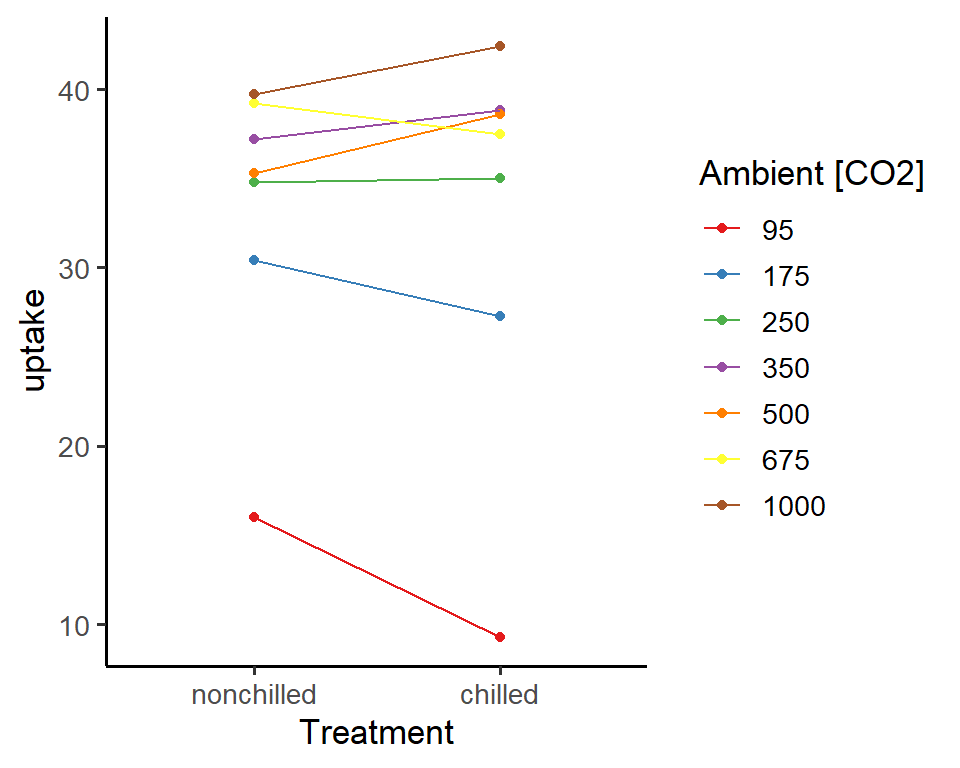
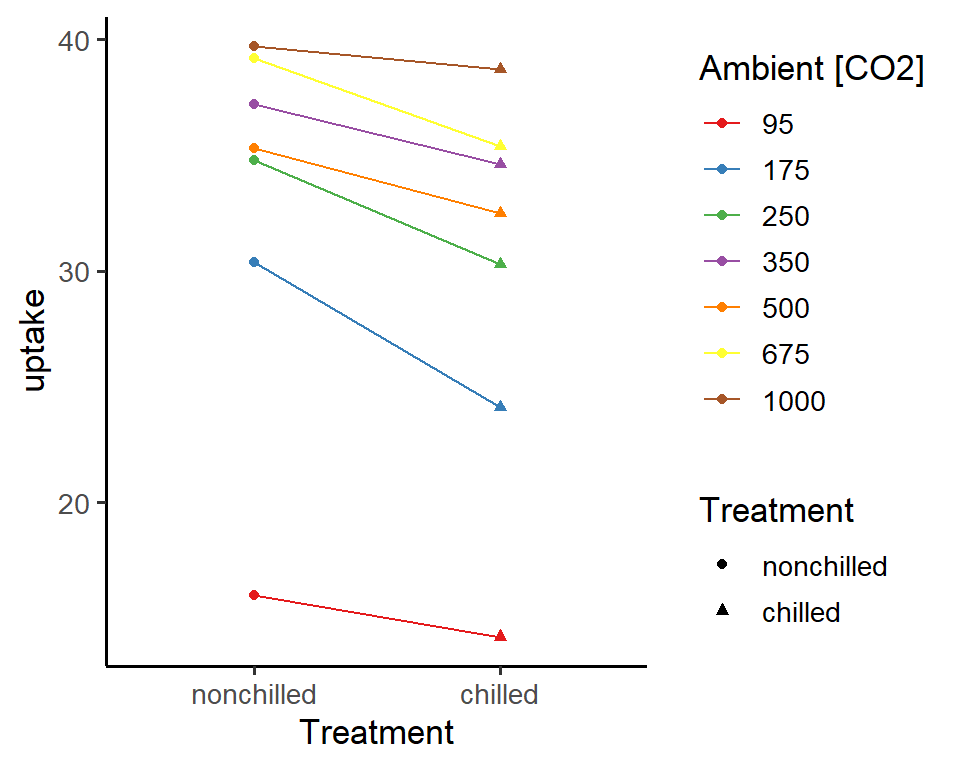
u

diff --git a/_posts/2024-06-11-post-34-connecting-paired-points-by-groups-in-ggplots/post-34-connecting-paired-points-by-groups-in-ggplots.html b/_posts/2024-06-11-post-34-connecting-paired-points-by-groups-in-ggplots/post-34-connecting-paired-points-by-groups-in-ggplots.html
@@ -118,7 +118,7 @@ code span.wa { color: #5e5e5e; font-style: italic; } /* Warning */
   <!--/radix_placeholder_rmarkdown_metadata-->
   
   <script type="text/json" id="radix-resource-manifest">
-  {"type":"character","attributes":{},"value":["post-34-connecting-paired-points-by-groups-in-ggplots_files/anchor-4.2.2/anchor.min.js","post-34-connecting-paired-points-by-groups-in-ggplots_files/bowser-1.9.3/bowser.min.js","post-34-connecting-paired-points-by-groups-in-ggplots_files/distill-2.2.21/template.v2.js","post-34-connecting-paired-points-by-groups-in-ggplots_files/figure-html5/unnamed-chunk-1-1.png","post-34-connecting-paired-points-by-groups-in-ggplots_files/header-attrs-2.25/header-attrs.js","post-34-connecting-paired-points-by-groups-in-ggplots_files/jquery-3.6.0/jquery-3.6.0.js","post-34-connecting-paired-points-by-groups-in-ggplots_files/jquery-3.6.0/jquery-3.6.0.min.js","post-34-connecting-paired-points-by-groups-in-ggplots_files/jquery-3.6.0/jquery-3.6.0.min.map","post-34-connecting-paired-points-by-groups-in-ggplots_files/popper-2.6.0/popper.min.js","post-34-connecting-paired-points-by-groups-in-ggplots_files/tippy-6.2.7/tippy-bundle.umd.min.js","post-34-connecting-paired-points-by-groups-in-ggplots_files/tippy-6.2.7/tippy-light-border.css","post-34-connecting-paired-points-by-groups-in-ggplots_files/tippy-6.2.7/tippy.css","post-34-connecting-paired-points-by-groups-in-ggplots_files/tippy-6.2.7/tippy.umd.min.js","post-34-connecting-paired-points-by-groups-in-ggplots_files/webcomponents-2.0.0/webcomponents.js"]}
+  {"type":"character","attributes":{},"value":["post-34-connecting-paired-points-by-groups-in-ggplots_files/anchor-4.2.2/anchor.min.js","post-34-connecting-paired-points-by-groups-in-ggplots_files/bowser-1.9.3/bowser.min.js","post-34-connecting-paired-points-by-groups-in-ggplots_files/distill-2.2.21/template.v2.js","post-34-connecting-paired-points-by-groups-in-ggplots_files/figure-html5/unnamed-chunk-1-1.png","post-34-connecting-paired-points-by-groups-in-ggplots_files/figure-html5/unnamed-chunk-2-1.png","post-34-connecting-paired-points-by-groups-in-ggplots_files/figure-html5/unnamed-chunk-3-1.png","post-34-connecting-paired-points-by-groups-in-ggplots_files/header-attrs-2.25/header-attrs.js","post-34-connecting-paired-points-by-groups-in-ggplots_files/jquery-3.6.0/jquery-3.6.0.js","post-34-connecting-paired-points-by-groups-in-ggplots_files/jquery-3.6.0/jquery-3.6.0.min.js","post-34-connecting-paired-points-by-groups-in-ggplots_files/jquery-3.6.0/jquery-3.6.0.min.map","post-34-connecting-paired-points-by-groups-in-ggplots_files/popper-2.6.0/popper.min.js","post-34-connecting-paired-points-by-groups-in-ggplots_files/tippy-6.2.7/tippy-bundle.umd.min.js","post-34-connecting-paired-points-by-groups-in-ggplots_files/tippy-6.2.7/tippy-light-border.css","post-34-connecting-paired-points-by-groups-in-ggplots_files/tippy-6.2.7/tippy.css","post-34-connecting-paired-points-by-groups-in-ggplots_files/tippy-6.2.7/tippy.umd.min.js","post-34-connecting-paired-points-by-groups-in-ggplots_files/webcomponents-2.0.0/webcomponents.js"]}
   </script>
   <!--radix_placeholder_navigation_in_header-->
   <!--/radix_placeholder_navigation_in_header-->
@@ -1643,35 +1643,57 @@ div.l-body img {
 <pre class="sourceCode r"><code class="sourceCode r"><span><span class='kw'><a href='https://rdrr.io/r/base/library.html'>library</a></span><span class='op'>(</span><span class='va'><a href='https://tidyverse.tidyverse.org'>tidyverse</a></span><span class='op'>)</span></span>
 <span></span>
 <span><span class='co'>### Select plant individual #1</span></span>
-<span><span class='va'>CO2_plant1</span> <span class='op'>&lt;-</span> <span class='fu'><a href='https://dplyr.tidyverse.org/reference/filter.html'>filter</a></span><span class='op'>(</span><span class='va'>CO2</span>, <span class='va'>Plant</span> <span class='op'><a href='https://rdrr.io/r/base/match.html'>%in%</a></span> <span class='fu'><a href='https://rdrr.io/r/base/c.html'>c</a></span><span class='op'>(</span><span class='st'>"Qn1"</span>, <span class='st'>"Qc2"</span><span class='op'>)</span><span class='op'>)</span> </span>
+<span><span class='va'>CO2_plant_1</span> <span class='op'>&lt;-</span> <span class='fu'><a href='https://dplyr.tidyverse.org/reference/filter.html'>filter</a></span><span class='op'>(</span><span class='va'>CO2</span>, <span class='va'>Plant</span> <span class='op'><a href='https://rdrr.io/r/base/match.html'>%in%</a></span> <span class='fu'><a href='https://rdrr.io/r/base/c.html'>c</a></span><span class='op'>(</span><span class='st'>"Qn1"</span>, <span class='st'>"Qc1"</span><span class='op'>)</span><span class='op'>)</span> </span>
 <span>  </span>
 <span><span class='co'>### Plot  </span></span>
-<span><span class='fu'><a href='https://ggplot2.tidyverse.org/reference/ggplot.html'>ggplot</a></span><span class='op'>(</span><span class='va'>CO2_plant1</span><span class='op'>)</span> <span class='op'>+</span> </span>
-<span>  <span class='fu'><a href='https://ggplot2.tidyverse.org/reference/geom_point.html'>geom_point</a></span><span class='op'>(</span><span class='fu'><a href='https://ggplot2.tidyverse.org/reference/aes.html'>aes</a></span><span class='op'>(</span>x <span class='op'>=</span> <span class='va'>Treatment</span>, y <span class='op'>=</span> <span class='va'>uptake</span>, color <span class='op'>=</span> <span class='fu'><a href='https://rdrr.io/r/base/factor.html'>factor</a></span><span class='op'>(</span><span class='va'>conc</span><span class='op'>)</span><span class='op'>)</span><span class='op'>)</span> <span class='op'>+</span> </span>
+<span><span class='fu'><a href='https://ggplot2.tidyverse.org/reference/ggplot.html'>ggplot</a></span><span class='op'>(</span><span class='va'>CO2_plant_1</span><span class='op'>)</span> <span class='op'>+</span> </span>
+<span>  <span class='fu'><a href='https://ggplot2.tidyverse.org/reference/geom_point.html'>geom_point</a></span><span class='op'>(</span><span class='fu'><a href='https://ggplot2.tidyverse.org/reference/aes.html'>aes</a></span><span class='op'>(</span>x <span class='op'>=</span> <span class='va'>Treatment</span>, y <span class='op'>=</span> <span class='va'>uptake</span>, shape <span class='op'>=</span> <span class='va'>Treatment</span>, color <span class='op'>=</span> <span class='fu'><a href='https://rdrr.io/r/base/factor.html'>factor</a></span><span class='op'>(</span><span class='va'>conc</span><span class='op'>)</span><span class='op'>)</span><span class='op'>)</span> <span class='op'>+</span> </span>
 <span>  <span class='fu'><a href='https://ggplot2.tidyverse.org/reference/geom_path.html'>geom_line</a></span><span class='op'>(</span><span class='fu'><a href='https://ggplot2.tidyverse.org/reference/aes.html'>aes</a></span><span class='op'>(</span>x <span class='op'>=</span> <span class='va'>Treatment</span>, y <span class='op'>=</span> <span class='va'>uptake</span>, color <span class='op'>=</span> <span class='fu'><a href='https://rdrr.io/r/base/factor.html'>factor</a></span><span class='op'>(</span><span class='va'>conc</span><span class='op'>)</span>, group <span class='op'>=</span> <span class='fu'><a href='https://rdrr.io/r/base/factor.html'>factor</a></span><span class='op'>(</span><span class='va'>conc</span><span class='op'>)</span><span class='op'>)</span><span class='op'>)</span> <span class='op'>+</span> </span>
 <span>  <span class='fu'><a href='https://ggplot2.tidyverse.org/reference/scale_brewer.html'>scale_color_brewer</a></span><span class='op'>(</span>palette <span class='op'>=</span> <span class='st'>"Set1"</span>, name <span class='op'>=</span> <span class='st'>"Ambient [CO2]"</span><span class='op'>)</span> <span class='op'>+</span> </span>
 <span>  <span class='fu'><a href='https://ggplot2.tidyverse.org/reference/ggtheme.html'>theme_classic</a></span><span class='op'>(</span>base_size <span class='op'>=</span> <span class='fl'>13</span><span class='op'>)</span></span></code></pre>
 </div>
 <p><img src="post-34-connecting-paired-points-by-groups-in-ggplots_files/figure-html5/unnamed-chunk-1-1.png" width="480" style="display: block; margin: auto;" /></p>
 </div>
-<p>Looks like the effect of chilling depends on the ambient CO<sub>2</sub> concentrations: chilling reduces CO<sub>2</sub> uptake at low ambient CO<sub>2</sub> concentrations but tends to slightly increase CO<sub>2</sub> uptake at high ambient CO<sub>2</sub> concentrations.</p>
+<p>Looks like chilling reduces CO<sub>2</sub> uptake rates of plant individual #1 under all ambient CO<sub>2</sub> concentrations.</p>
 <h2 id="case-2.-two-or-more-groups">Case 2. Two or more groups</h2>
-<p>Now, what if we’re interested in the other two plant individuals from Quebec? Would the patterns be similar across all three plants?</p>
-<p>Let’s see.</p>
-<p>CO2 dataset
-focus on the Q type
-X axis is the plant species (three species)
-Y axis is the CO2 uptake rate
-dodged by treatment
-Paired by concentration</p>
+<p>Now, what if we’re interested in the other plant individuals? Would the patterns be similar? Let’s make a plot and see.</p>
 <div class="layout-chunk" data-layout="l-body">
 <div class="sourceCode">
-<pre class="sourceCode r"><code class="sourceCode r"><span><span class='kw'><a href='https://rdrr.io/r/base/library.html'>library</a></span><span class='op'>(</span><span class='va'><a href='https://tidyverse.tidyverse.org'>tidyverse</a></span><span class='op'>)</span></span></code></pre>
+<pre class="sourceCode r"><code class="sourceCode r"><span><span class='co'>### Select plant individual #1 to #3</span></span>
+<span><span class='va'>CO2_plant_1_to_3</span> <span class='op'>&lt;-</span> <span class='fu'><a href='https://dplyr.tidyverse.org/reference/filter.html'>filter</a></span><span class='op'>(</span><span class='va'>CO2</span>, <span class='va'>Plant</span> <span class='op'><a href='https://rdrr.io/r/base/match.html'>%in%</a></span> <span class='fu'><a href='https://rdrr.io/r/base/c.html'>c</a></span><span class='op'>(</span><span class='st'>"Qn1"</span>, <span class='st'>"Qc1"</span>, <span class='st'>"Qn2"</span>, <span class='st'>"Qc2"</span>, <span class='st'>"Qn3"</span>, <span class='st'>"Qc3"</span><span class='op'>)</span><span class='op'>)</span> <span class='op'><a href='https://magrittr.tidyverse.org/reference/pipe.html'>%&gt;%</a></span> </span>
+<span>  <span class='fu'><a href='https://dplyr.tidyverse.org/reference/mutate.html'>mutate</a></span><span class='op'>(</span>Plant_id <span class='op'>=</span> <span class='fu'><a href='https://stringr.tidyverse.org/reference/str_remove.html'>str_remove</a></span><span class='op'>(</span><span class='va'>Plant</span>, <span class='st'>"(n|c)"</span><span class='op'>)</span><span class='op'>)</span> <span class='op'><a href='https://magrittr.tidyverse.org/reference/pipe.html'>%&gt;%</a></span> </span>
+<span>  <span class='fu'><a href='https://dplyr.tidyverse.org/reference/mutate.html'>mutate</a></span><span class='op'>(</span>Plant_conc_id <span class='op'>=</span> <span class='fu'><a href='https://stringr.tidyverse.org/reference/str_c.html'>str_c</a></span><span class='op'>(</span><span class='va'>Plant_id</span>, <span class='va'>conc</span>, sep <span class='op'>=</span> <span class='st'>"_"</span><span class='op'>)</span><span class='op'>)</span>  <span class='co'># create a unique id for the paired points</span></span>
+<span>  </span>
+<span><span class='co'>### Plot  </span></span>
+<span><span class='fu'><a href='https://ggplot2.tidyverse.org/reference/ggplot.html'>ggplot</a></span><span class='op'>(</span><span class='va'>CO2_plant_1_to_3</span><span class='op'>)</span> <span class='op'>+</span> </span>
+<span>  <span class='fu'><a href='https://ggplot2.tidyverse.org/reference/geom_point.html'>geom_point</a></span><span class='op'>(</span><span class='fu'><a href='https://ggplot2.tidyverse.org/reference/aes.html'>aes</a></span><span class='op'>(</span>x <span class='op'>=</span> <span class='va'>Plant_id</span>, y <span class='op'>=</span> <span class='va'>uptake</span>, group <span class='op'>=</span> <span class='va'>Treatment</span>, shape <span class='op'>=</span> <span class='va'>Treatment</span>, color <span class='op'>=</span> <span class='fu'><a href='https://rdrr.io/r/base/factor.html'>factor</a></span><span class='op'>(</span><span class='va'>conc</span><span class='op'>)</span><span class='op'>)</span>,</span>
+<span>             position <span class='op'>=</span> <span class='fu'><a href='https://ggplot2.tidyverse.org/reference/position_dodge.html'>position_dodge</a></span><span class='op'>(</span>width <span class='op'>=</span> <span class='fl'>0.8</span><span class='op'>)</span><span class='op'>)</span> <span class='op'>+</span> </span>
+<span>  <span class='fu'><a href='https://ggplot2.tidyverse.org/reference/geom_path.html'>geom_line</a></span><span class='op'>(</span><span class='fu'><a href='https://ggplot2.tidyverse.org/reference/aes.html'>aes</a></span><span class='op'>(</span>x <span class='op'>=</span> <span class='va'>Plant_id</span>, y <span class='op'>=</span> <span class='va'>uptake</span>, group <span class='op'>=</span> <span class='va'>Plant_conc_id</span>, color <span class='op'>=</span> <span class='fu'><a href='https://rdrr.io/r/base/factor.html'>factor</a></span><span class='op'>(</span><span class='va'>conc</span><span class='op'>)</span><span class='op'>)</span>,</span>
+<span>            position <span class='op'>=</span> <span class='fu'><a href='https://ggplot2.tidyverse.org/reference/position_dodge.html'>position_dodge</a></span><span class='op'>(</span>width <span class='op'>=</span> <span class='fl'>0.8</span><span class='op'>)</span><span class='op'>)</span> <span class='op'>+</span> </span>
+<span>  <span class='fu'><a href='https://ggplot2.tidyverse.org/reference/scale_brewer.html'>scale_color_brewer</a></span><span class='op'>(</span>palette <span class='op'>=</span> <span class='st'>"Set1"</span>, name <span class='op'>=</span> <span class='st'>"Ambient [CO2]"</span><span class='op'>)</span> <span class='op'>+</span> </span>
+<span>  <span class='fu'><a href='https://ggplot2.tidyverse.org/reference/ggtheme.html'>theme_classic</a></span><span class='op'>(</span>base_size <span class='op'>=</span> <span class='fl'>13</span><span class='op'>)</span></span></code></pre>
 </div>
+<p><img src="post-34-connecting-paired-points-by-groups-in-ggplots_files/figure-html5/unnamed-chunk-2-1.png" width="672" style="display: block; margin: auto;" /></p>
 </div>
-<p>Well it doesn’t work. We need to tweak out code a bit. Read below!</p>
-<h3 id="methods-1.-use-facets">Methods #1. Use facets</h3>
-<h3 id="method-2.-manually-recode-the-paired-points">Method #2. Manually recode the paired points</h3>
+<p>Oops it doesn’t work. How can we solve this problem? Read below!</p>
+<h3 id="method-1.-use-facets">Method 1. Use facets</h3>
+<p>The first solution is to create separate panels for the plant individuals using facets. This is a easy quick fix.</p>
+<div class="layout-chunk" data-layout="l-body">
+<div class="sourceCode">
+<pre class="sourceCode r"><code class="sourceCode r"><span><span class='co'>### Plot  </span></span>
+<span><span class='fu'><a href='https://ggplot2.tidyverse.org/reference/ggplot.html'>ggplot</a></span><span class='op'>(</span><span class='va'>CO2_plant_1_to_3</span><span class='op'>)</span> <span class='op'>+</span> </span>
+<span>  <span class='fu'><a href='https://ggplot2.tidyverse.org/reference/geom_point.html'>geom_point</a></span><span class='op'>(</span><span class='fu'><a href='https://ggplot2.tidyverse.org/reference/aes.html'>aes</a></span><span class='op'>(</span>x <span class='op'>=</span> <span class='va'>Treatment</span>, y <span class='op'>=</span> <span class='va'>uptake</span>, color <span class='op'>=</span> <span class='fu'><a href='https://rdrr.io/r/base/factor.html'>factor</a></span><span class='op'>(</span><span class='va'>conc</span><span class='op'>)</span><span class='op'>)</span><span class='op'>)</span> <span class='op'>+</span> </span>
+<span>  <span class='fu'><a href='https://ggplot2.tidyverse.org/reference/geom_path.html'>geom_line</a></span><span class='op'>(</span><span class='fu'><a href='https://ggplot2.tidyverse.org/reference/aes.html'>aes</a></span><span class='op'>(</span>x <span class='op'>=</span> <span class='va'>Treatment</span>, y <span class='op'>=</span> <span class='va'>uptake</span>, group <span class='op'>=</span> <span class='fu'><a href='https://rdrr.io/r/base/factor.html'>factor</a></span><span class='op'>(</span><span class='va'>conc</span><span class='op'>)</span>, color <span class='op'>=</span> <span class='fu'><a href='https://rdrr.io/r/base/factor.html'>factor</a></span><span class='op'>(</span><span class='va'>conc</span><span class='op'>)</span><span class='op'>)</span><span class='op'>)</span> <span class='op'>+</span> </span>
+<span>  <span class='fu'><a href='https://ggplot2.tidyverse.org/reference/facet_wrap.html'>facet_wrap</a></span><span class='op'>(</span> <span class='op'>~</span> <span class='va'>Plant_id</span><span class='op'>)</span> <span class='op'>+</span>  <span class='co'># creating facets by plant id</span></span>
+<span>  <span class='fu'><a href='https://ggplot2.tidyverse.org/reference/scale_brewer.html'>scale_color_brewer</a></span><span class='op'>(</span>palette <span class='op'>=</span> <span class='st'>"Set1"</span>, name <span class='op'>=</span> <span class='st'>"Ambient [CO2]"</span><span class='op'>)</span> <span class='op'>+</span> </span>
+<span>  <span class='fu'><a href='https://ggplot2.tidyverse.org/reference/ggtheme.html'>theme_classic</a></span><span class='op'>(</span>base_size <span class='op'>=</span> <span class='fl'>13</span><span class='op'>)</span></span></code></pre>
+</div>
+<p><img src="post-34-connecting-paired-points-by-groups-in-ggplots_files/figure-html5/unnamed-chunk-3-1.png" width="672" style="display: block; margin: auto;" /></p>
+</div>
+<p>As we can see, all three plant individuals showed similar responses to chilling.</p>
+<h3 id="method-2.-manually-recode-the-paired-points">Method 2. Manually recode the paired points</h3>
+<p>A second method is to manually recode the x-coordinates of the paired points and join them with lines. This is a bit more tedious, but works if you don’t want to use facets.</p>
+<p>Basically, the two treatment groups will be dodged to the two sides for each plant individual, and a unique id is used to connect the paired points.</p>
 <div class="layout-chunk" data-layout="l-body">
 <div class="sourceCode">
 <pre class="sourceCode r"><code class="sourceCode r"><span><span class='va'>df</span> <span class='op'>&lt;-</span> <span class='fu'><a href='https://rdrr.io/r/base/c.html'>c</a></span><span class='op'>(</span><span class='st'>"A"</span>, <span class='st'>"B"</span>, <span class='st'>"A"</span>, <span class='st'>"C"</span>, <span class='st'>"C"</span>, <span class='st'>"B"</span>, <span class='st'>"A"</span><span class='op'>)</span></span>
